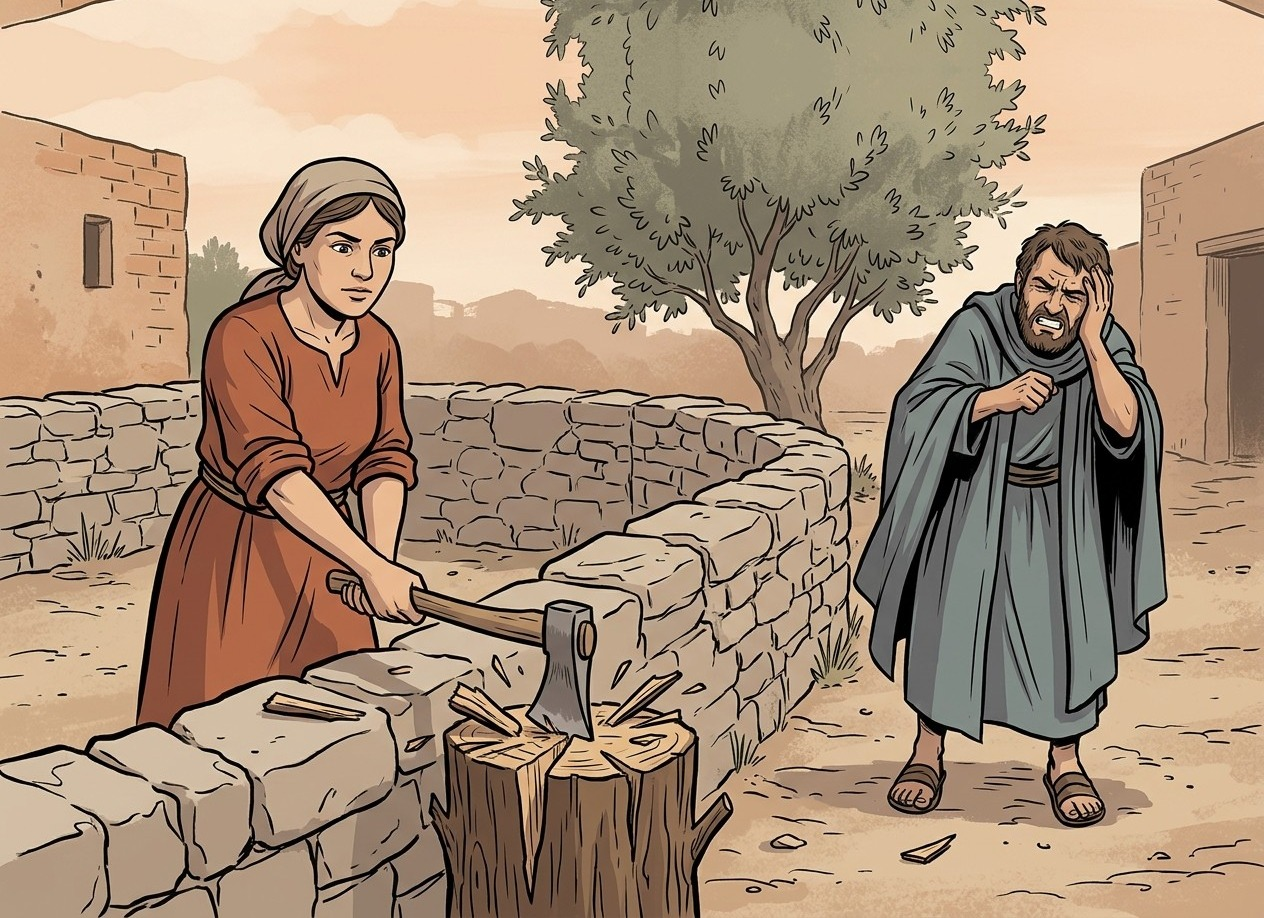
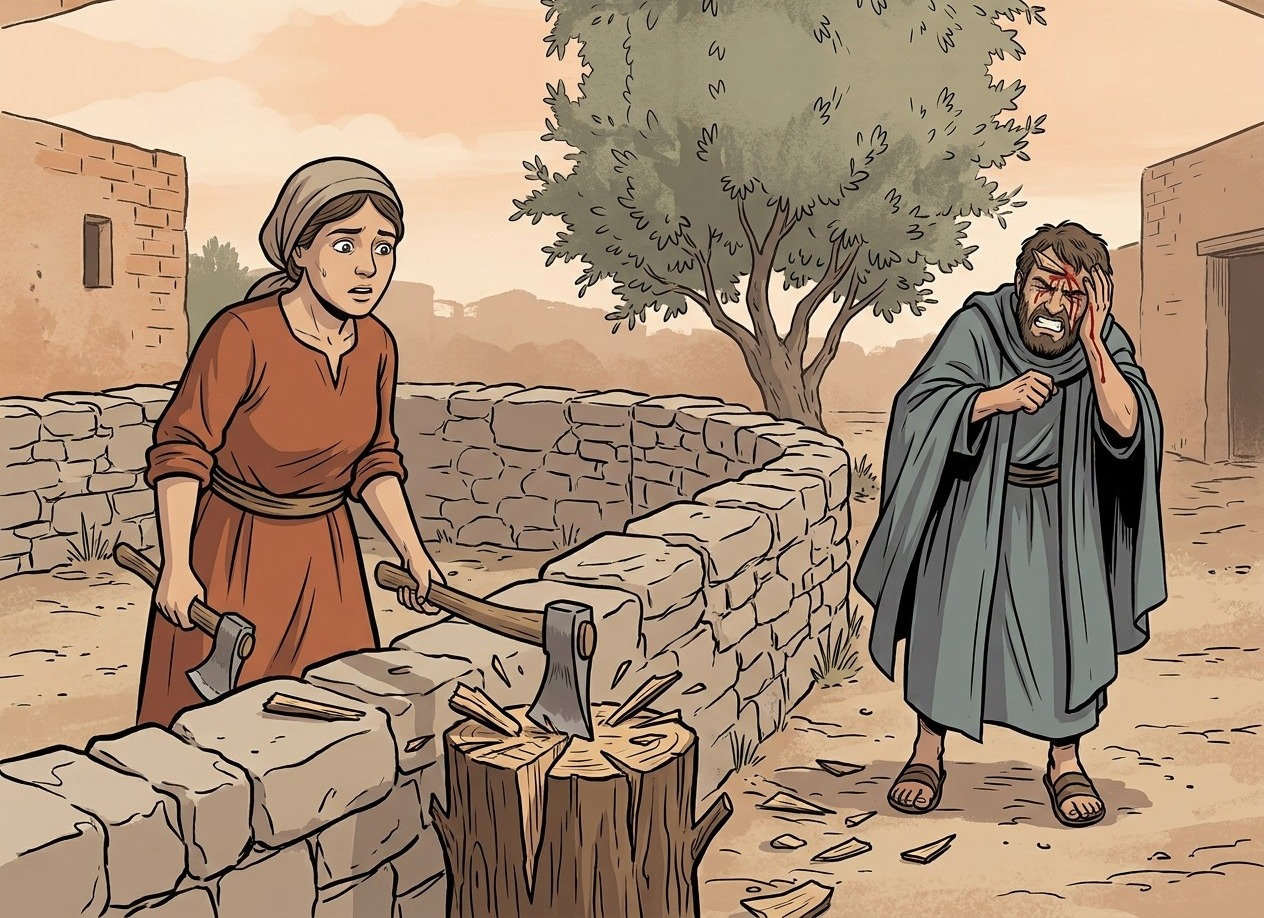
BK 3:7 replaced with the visibly injured version

diff --git a/AnyMishnahWeb/site/bava-kamma-3.html b/AnyMishnahWeb/site/bava-kamma-3.html
@@ -99,7 +99,7 @@ html[data-mode=q] .hot{border-color:transparent;background:none;pointer-events:n
 <div class="grid"><div class="panel aids"><h4>The case</h4><ul><li>Two were walking in the public domain, one running and the other walking, or both running, and they injured one another: neither is liable.</li><li>People have the right to walk in the public domain, and the right to run. Running is not in itself careless, so it carries no extra liability.</li></ul></div>
 <div class="panel text"><div class="he" lang="he" dir="rtl">שנים שהיו מהלכין ברשות הרבים. אחד רץ ואחד מהלך. או שהיו שניהם רצים. והזיקו זה את זה. שניהם פטורין: </div><div class="en">[If] two were walking along in the public domain, the one running and the other walking, or both running and they injured one another, neither is liable.</div><figure class="pic v" data-aud="y" data-mode="i"><div class="stage"><img src="img/older/clean/bk3-6.jpg" alt="A runner and a walker collide and both are hurt: neither pays the other." loading="lazy"><button class="hot" data-h="0" data-ans="notpay" data-q="1" aria-pressed="false" aria-label="The woman" style="left:10.206%;top:32.547%;width:28.402%;height:55.071%"></button><button class="hot" data-h="1" data-ans="notpay" data-q="2" aria-pressed="false" aria-label="The man" style="left:71.915%;top:33.373%;width:17.722%;height:57.075%"></button><img class="ov" data-h="0" src="img/tag-notpay.png" alt="" style="left:24.407%;top:32.783%;width:8.228%;--t:translate(-50%,-100%)"><img class="ov" data-h="1" src="img/tag-notpay.png" alt="" style="left:80.775%;top:33.608%;width:8.228%;--t:translate(-50%,-100%)"><span class="qchip" data-h="0" style="left:10.206%;top:32.547%">1</span><span class="qchip" data-h="1" style="left:71.915%;top:33.373%">2</span></div><div class="qask qonly"><span class="qa"><b>1</b> A runner and a walker collide and both are hurt. Does the woman pay the man?</span> <span class="qa"><b>2</b> Does the man pay the woman?</span></div><div class="tray qonly" role="group" aria-label="Badges"><button class="tb" type="button" data-k="pay" aria-label="pays" title="pays"><img src="img/badge-pay.png" alt="" draggable="false"></button><button class="tb" type="button" data-k="notpay" aria-label="does not pay" title="does not pay"><img src="img/badge-notpay.png" alt="" draggable="false"></button><button class="tb" type="button" data-k="keeps" aria-label="keeps it" title="keeps it"><img src="img/badge-keeps.png" alt="" draggable="false"></button></div><div class="qmsg qonly" role="status" aria-live="polite"></div><figcaption><span class="ctext">A runner and a walker collide and both are hurt: neither pays the other.</span> <span class="hint">Tap a person to see the ruling.</span> <button class="all" type="button">Show all</button> <span class="qonly qbtns"><button class="qshow" type="button">Show answers</button><button class="qreset" type="button">Try again</button></span><span class="qonly qhint">Drag a badge from the tray onto the picture, or tap a badge and then tap where it belongs.</span> <span class="note">Younger-audience picture not made yet; showing the older-audience one.</span></figcaption></figure><figure class="pic v" data-aud="y" data-mode="s"><img src="img/older/bk3-6.jpg" alt="A runner and a walker collide and both are hurt: neither pays the other." loading="lazy"><figcaption><span class="ctext">A runner and a walker collide and both are hurt: neither pays the other.</span> <span class="note">Younger-audience picture not made yet; showing the older-audience one.</span></figcaption></figure><figure class="pic v" data-aud="o" data-mode="i"><div class="stage"><img src="img/older/clean/bk3-6.jpg" alt="A runner and a walker collide and both are hurt: neither pays the other." loading="lazy"><button class="hot" data-h="0" data-ans="notpay" data-q="1" aria-pressed="false" aria-label="The woman" style="left:10.206%;top:32.547%;width:28.402%;height:55.071%"></button><button class="hot" data-h="1" data-ans="notpay" data-q="2" aria-pressed="false" aria-label="The man" style="left:71.915%;top:33.373%;width:17.722%;height:57.075%"></button><img class="ov" data-h="0" src="img/tag-notpay.png" alt="" style="left:24.407%;top:32.783%;width:8.228%;--t:translate(-50%,-100%)"><img class="ov" data-h="1" src="img/tag-notpay.png" alt="" style="left:80.775%;top:33.608%;width:8.228%;--t:translate(-50%,-100%)"><span class="qchip" data-h="0" style="left:10.206%;top:32.547%">1</span><span class="qchip" data-h="1" style="left:71.915%;top:33.373%">2</span></div><div class="qask qonly"><span class="qa"><b>1</b> A runner and a walker collide and both are hurt. Does the woman pay the man?</span> <span class="qa"><b>2</b> Does the man pay the woman?</span></div><div class="tray qonly" role="group" aria-label="Badges"><button class="tb" type="button" data-k="pay" aria-label="pays" title="pays"><img src="img/badge-pay.png" alt="" draggable="false"></button><button class="tb" type="button" data-k="notpay" aria-label="does not pay" title="does not pay"><img src="img/badge-notpay.png" alt="" draggable="false"></button><button class="tb" type="button" data-k="keeps" aria-label="keeps it" title="keeps it"><img src="img/badge-keeps.png" alt="" draggable="false"></button></div><div class="qmsg qonly" role="status" aria-live="polite"></div><figcaption><span class="ctext">A runner and a walker collide and both are hurt: neither pays the other.</span> <span class="hint">Tap a person to see the ruling.</span> <button class="all" type="button">Show all</button> <span class="qonly qbtns"><button class="qshow" type="button">Show answers</button><button class="qreset" type="button">Try again</button></span><span class="qonly qhint">Drag a badge from the tray onto the picture, or tap a badge and then tap where it belongs.</span></figcaption></figure><figure class="pic v" data-aud="o" data-mode="s"><img src="img/older/bk3-6.jpg" alt="A runner and a walker collide and both are hurt: neither pays the other." loading="lazy"><figcaption><span class="ctext">A runner and a walker collide and both are hurt: neither pays the other.</span></figcaption></figure><details><summary>R. Kulp's commentary</summary><p><b>[If] two were walking along in the public domain, the one running and the other walking, or both running and they injured one another, neither is liable.</b> Mishnah six teaches again that people have the right to walk in the public domain and if someone bumps into them, they will not be liable for damages, unless they should have seen the person, as we learned yesterday.  The new element in this mishnah is running.  One might have thought that running in the public domain is by its nature dangerous, and therefore anyone who does so will be liable for any damages he/she causes.  The mishnah says no, a person has the right to run in the public domain.  Running in and of itself is not a criminally negligent activity and therefore does not carry with it an added degree of liability.</p><p><b>Questions for Further Thought:</b> • Yesterday I suggested to analogize the mishnah’s descriptions of accidents in the public domain to traffic accidents in our society.  What might be a modern equivalent to running?  Try to think of something that is inherently more dangerous but still legal and does not carry with it any extra liability.  Is there such a thing?</p></details></div></div></section><section id="m7"><h2>Mishnah 7: Splitting wood</h2><p class="sum">Someone who splits wood and hurts anyone is liable, whichever domain he and the injured person are in.</p>
 <div class="grid"><div class="panel aids"><h4>The case</h4><ul><li>A man was splitting wood in a private domain and injured anyone in the public domain, or was in the public domain and injured anyone in a private domain, or was in a private domain and injured anyone in another private domain: he is liable.</li><li>A person has the right to work in a profession of his choice, but the profession may not cause damage to other people; wherever he chops and wherever the damage is, he is liable.</li></ul></div>
-<div class="panel text"><div class="he" lang="he" dir="rtl">המבקע ברשות היחיד והזיק ברשות הרבים. ברשות הרבים והזיק ברשות היחיד. ברשות היחיד והזיק ברשות היחיד אחר. חייב: </div><div class="en">[If] a man was splitting wood in the private domain and injured anyone in the public domain, or if he was in the public domain and injured anyone in the private domain, or if he was in a private domain and injured anyone in another private domain, he is liable.</div><figure class="pic v" data-aud="y" data-mode="i"><div class="stage"><img src="img/older/clean/bk3-7.jpg" alt="A chip from her log flew over the wall and hurt a passerby: she pays." loading="lazy"><button class="hot" data-h="0" data-ans="pay" data-q="?" aria-pressed="false" aria-label="The woman splitting wood" style="left:15.348%;top:15.795%;width:18.038%;height:66.776%"></button><img class="ov" data-h="0" src="img/tag-pay.png" alt="" style="left:24.367%;top:16.013%;width:8.228%;--t:translate(-50%,-100%)"><span class="qchip" data-h="0" style="left:15.348%;top:15.795%">?</span></div><div class="qask qonly"><span class="qa">A chip from her log flew over the wall and hurt a passerby. Does she pay?</span></div><div class="tray qonly" role="group" aria-label="Badges"><button class="tb" type="button" data-k="pay" aria-label="pays" title="pays"><img src="img/badge-pay.png" alt="" draggable="false"></button><button class="tb" type="button" data-k="notpay" aria-label="does not pay" title="does not pay"><img src="img/badge-notpay.png" alt="" draggable="false"></button><button class="tb" type="button" data-k="keeps" aria-label="keeps it" title="keeps it"><img src="img/badge-keeps.png" alt="" draggable="false"></button></div><div class="qmsg qonly" role="status" aria-live="polite"></div><figcaption><span class="ctext">A chip from her log flew over the wall and hurt a passerby: she pays.</span> <span class="hint">Tap a person to see the ruling.</span> <button class="all" type="button">Show all</button> <span class="qonly qbtns"><button class="qshow" type="button">Show answers</button><button class="qreset" type="button">Try again</button></span><span class="qonly qhint">Drag a badge from the tray onto the picture, or tap a badge and then tap where it belongs.</span> <span class="note">Younger-audience picture not made yet; showing the older-audience one.</span></figcaption></figure><figure class="pic v" data-aud="y" data-mode="s"><img src="img/older/bk3-7.jpg" alt="A chip from her log flew over the wall and hurt a passerby: she pays." loading="lazy"><figcaption><span class="ctext">A chip from her log flew over the wall and hurt a passerby: she pays.</span> <span class="note">Younger-audience picture not made yet; showing the older-audience one.</span></figcaption></figure><figure class="pic v" data-aud="o" data-mode="i"><div class="stage"><img src="img/older/clean/bk3-7.jpg" alt="A chip from her log flew over the wall and hurt a passerby: she pays." loading="lazy"><button class="hot" data-h="0" data-ans="pay" data-q="?" aria-pressed="false" aria-label="The woman splitting wood" style="left:15.348%;top:15.795%;width:18.038%;height:66.776%"></button><img class="ov" data-h="0" src="img/tag-pay.png" alt="" style="left:24.367%;top:16.013%;width:8.228%;--t:translate(-50%,-100%)"><span class="qchip" data-h="0" style="left:15.348%;top:15.795%">?</span></div><div class="qask qonly"><span class="qa">A chip from her log flew over the wall and hurt a passerby. Does she pay?</span></div><div class="tray qonly" role="group" aria-label="Badges"><button class="tb" type="button" data-k="pay" aria-label="pays" title="pays"><img src="img/badge-pay.png" alt="" draggable="false"></button><button class="tb" type="button" data-k="notpay" aria-label="does not pay" title="does not pay"><img src="img/badge-notpay.png" alt="" draggable="false"></button><button class="tb" type="button" data-k="keeps" aria-label="keeps it" title="keeps it"><img src="img/badge-keeps.png" alt="" draggable="false"></button></div><div class="qmsg qonly" role="status" aria-live="polite"></div><figcaption><span class="ctext">A chip from her log flew over the wall and hurt a passerby: she pays.</span> <span class="hint">Tap a person to see the ruling.</span> <button class="all" type="button">Show all</button> <span class="qonly qbtns"><button class="qshow" type="button">Show answers</button><button class="qreset" type="button">Try again</button></span><span class="qonly qhint">Drag a badge from the tray onto the picture, or tap a badge and then tap where it belongs.</span></figcaption></figure><figure class="pic v" data-aud="o" data-mode="s"><img src="img/older/bk3-7.jpg" alt="A chip from her log flew over the wall and hurt a passerby: she pays." loading="lazy"><figcaption><span class="ctext">A chip from her log flew over the wall and hurt a passerby: she pays.</span></figcaption></figure><details><summary>R. Kulp's commentary</summary><p><b>Questions for Further Thought:</b> • Based on mishnah seven, would you think a person would be liable if while chopping wood on his own property he damages someone who has entered his property?</p></details></div></div></section><section id="m8"><h2>Mishnah 8: When two oxen or two people hurt each other</h2><p class="sum">The payment is for the greater hurt. Harmless oxen pay half damages, oxen that are attested dangers and people pay full damages.</p>
+<div class="panel text"><div class="he" lang="he" dir="rtl">המבקע ברשות היחיד והזיק ברשות הרבים. ברשות הרבים והזיק ברשות היחיד. ברשות היחיד והזיק ברשות היחיד אחר. חייב: </div><div class="en">[If] a man was splitting wood in the private domain and injured anyone in the public domain, or if he was in the public domain and injured anyone in the private domain, or if he was in a private domain and injured anyone in another private domain, he is liable.</div><figure class="pic v" data-aud="y" data-mode="i"><div class="stage"><img src="img/older/clean/bk3-7.jpg" alt="A chip from her log flew over the wall and cut a passerby: she pays." loading="lazy"><button class="hot" data-h="0" data-ans="pay" data-q="?" aria-pressed="false" aria-label="The woman splitting wood" style="left:14.399%;top:15.577%;width:26.661%;height:64.597%"></button><img class="ov" data-h="0" src="img/tag-pay.png" alt="" style="left:27.729%;top:15.795%;width:8.228%;--t:translate(-50%,-100%)"><span class="qchip" data-h="0" style="left:14.399%;top:15.577%">?</span></div><div class="qask qonly"><span class="qa">A chip from her log flew over the wall and cut a passerby&#x27;s forehead. Does she pay?</span></div><div class="tray qonly" role="group" aria-label="Badges"><button class="tb" type="button" data-k="pay" aria-label="pays" title="pays"><img src="img/badge-pay.png" alt="" draggable="false"></button><button class="tb" type="button" data-k="notpay" aria-label="does not pay" title="does not pay"><img src="img/badge-notpay.png" alt="" draggable="false"></button><button class="tb" type="button" data-k="keeps" aria-label="keeps it" title="keeps it"><img src="img/badge-keeps.png" alt="" draggable="false"></button></div><div class="qmsg qonly" role="status" aria-live="polite"></div><figcaption><span class="ctext">A chip from her log flew over the wall and cut a passerby: she pays.</span> <span class="hint">Tap a person to see the ruling.</span> <button class="all" type="button">Show all</button> <span class="qonly qbtns"><button class="qshow" type="button">Show answers</button><button class="qreset" type="button">Try again</button></span><span class="qonly qhint">Drag a badge from the tray onto the picture, or tap a badge and then tap where it belongs.</span> <span class="note">Younger-audience picture not made yet; showing the older-audience one.</span></figcaption></figure><figure class="pic v" data-aud="y" data-mode="s"><img src="img/older/bk3-7.jpg" alt="A chip from her log flew over the wall and cut a passerby: she pays." loading="lazy"><figcaption><span class="ctext">A chip from her log flew over the wall and cut a passerby: she pays.</span> <span class="note">Younger-audience picture not made yet; showing the older-audience one.</span></figcaption></figure><figure class="pic v" data-aud="o" data-mode="i"><div class="stage"><img src="img/older/clean/bk3-7.jpg" alt="A chip from her log flew over the wall and cut a passerby: she pays." loading="lazy"><button class="hot" data-h="0" data-ans="pay" data-q="?" aria-pressed="false" aria-label="The woman splitting wood" style="left:14.399%;top:15.577%;width:26.661%;height:64.597%"></button><img class="ov" data-h="0" src="img/tag-pay.png" alt="" style="left:27.729%;top:15.795%;width:8.228%;--t:translate(-50%,-100%)"><span class="qchip" data-h="0" style="left:14.399%;top:15.577%">?</span></div><div class="qask qonly"><span class="qa">A chip from her log flew over the wall and cut a passerby&#x27;s forehead. Does she pay?</span></div><div class="tray qonly" role="group" aria-label="Badges"><button class="tb" type="button" data-k="pay" aria-label="pays" title="pays"><img src="img/badge-pay.png" alt="" draggable="false"></button><button class="tb" type="button" data-k="notpay" aria-label="does not pay" title="does not pay"><img src="img/badge-notpay.png" alt="" draggable="false"></button><button class="tb" type="button" data-k="keeps" aria-label="keeps it" title="keeps it"><img src="img/badge-keeps.png" alt="" draggable="false"></button></div><div class="qmsg qonly" role="status" aria-live="polite"></div><figcaption><span class="ctext">A chip from her log flew over the wall and cut a passerby: she pays.</span> <span class="hint">Tap a person to see the ruling.</span> <button class="all" type="button">Show all</button> <span class="qonly qbtns"><button class="qshow" type="button">Show answers</button><button class="qreset" type="button">Try again</button></span><span class="qonly qhint">Drag a badge from the tray onto the picture, or tap a badge and then tap where it belongs.</span></figcaption></figure><figure class="pic v" data-aud="o" data-mode="s"><img src="img/older/bk3-7.jpg" alt="A chip from her log flew over the wall and cut a passerby: she pays." loading="lazy"><figcaption><span class="ctext">A chip from her log flew over the wall and cut a passerby: she pays.</span></figcaption></figure><details><summary>R. Kulp's commentary</summary><p><b>Questions for Further Thought:</b> • Based on mishnah seven, would you think a person would be liable if while chopping wood on his own property he damages someone who has entered his property?</p></details></div></div></section><section id="m8"><h2>Mishnah 8: When two oxen or two people hurt each other</h2><p class="sum">The payment is for the greater hurt. Harmless oxen pay half damages, oxen that are attested dangers and people pay full damages.</p>
 <div class="grid"><div class="panel aids"><h4>The cases in the mishnah</h4><ul><li>Two harmless oxen hurt one another: the owner pays half damages for the one that suffered the greater hurt.</li><li>If both were attested dangers: full damages for the one that suffered the greater hurt.</li><li>One harmless and one attested danger: the attested danger pays full damages for the greater hurt the other suffered; the harmless one pays half damages for the greater hurt the other suffered.</li><li>Two men who hurt one another: full damages for the one who suffered the greater hurt.</li><li>A man and a harmless ox: the man pays full damages; the ox&#x27;s owner pays half damages.</li><li>Rabbi Akiva: even if a harmless ox hurt a man, full damages are paid for the one who suffered the greater hurt.</li></ul><h4>Background</h4><ul><li>An attested danger (muad) has been testified against: its owner pays full damages from the best of his land. A harmless ox (tam) costs its owner half damages, from the value of the ox itself, so he never pays more than that ox is worth.</li><li>A human being is always an attested danger.</li></ul><div class="chart"><h4>Who pays for the greater hurt</h4><table><tr><th>Who hurt each other</th><th>The payment</th></tr><tr><td>Two harmless oxen</td><td>half damages</td></tr><tr><td>Two attested dangers</td><td>full damages</td></tr><tr><td>One attested danger, one harmless</td><td>the dangerous one pays full damages; the harmless one half</td></tr><tr><td>Two men</td><td>full damages</td></tr><tr><td>A man and a harmless ox</td><td>the man pays full damages; the ox&#x27;s owner half (R. Akiva: full)</td></tr></table></div></div>
 <div class="panel text"><div class="he" lang="he" dir="rtl">שני שוורים תמים שחבלו זה את זה משלמים במותר חצי נזק. שניהם מועדים משלמים במותר נזק שלם. אחד תם. ואחד מועד. מועד בתם משלם במותר נזק שלם. תם במועד משלם במותר חצי נזק. וכן שני אנשים שחבלו זה בזה משלמים במותר נזק שלם. אדם במועד. ומועד באדם. משלם במותר נזק שלם. אדם בתם ותם באדם. אדם בתם משלם במותר נזק שלם. תם באדם משלם במותר חצי נזק. רבי עקיבא אומר אף תם שחבל באדם משלם במותר נזק שלם: </div><div class="en">If two oxen which were accounted harmless hurt one another, the owner pays half-damages for that one which suffered the greater hurt. If both were attested dangers full damages are payable for that one which suffered the greater hurt. If one was accounted harmless and the other was an attested danger, that which was an attested danger as against that which was accounted harmless must pay full damages for the greater hurt that the other has suffered, while that which was accounted harmless, as against that which was an attested danger, pays only half damages for the greater hurt that the other has suffered. So, too, if two men hurt one another, full damages are payable for that one which suffered the greater hurt. If a man and an ox which was accounted harmless hurt one another, the man as against the ox accounted harmless must pay full damages for the greater hurt that the other has suffered, while the ox accounted harmless, as against the man, pays only half damages for the greater hurt that the other suffered. Rabbi Akiva says: “Even if an ox accounted harmless hurt a man, full damages must be paid for that one which suffered the greater hurt.</div></div></div></section><section id="m9"><h2>Mishnah 9: Selling the live ox and dividing</h2><p class="sum">The Torah says to sell the live ox and divide the price. The mishnah shows how this works out when the two oxen are worth different amounts.</p>
 <div class="grid"><div class="panel aids"><h4>The verse</h4><ul><li>Exodus 21:35: when a man&#x27;s ox gores his neighbour&#x27;s ox and it dies, they shall sell the live ox and divide its price, and they shall also divide the dead animal. This is the payment system for a harmless ox.</li></ul><h4>The cases</h4><ul><li>An ox worth 100 gored an ox worth 200 and the carcass is worth nothing: the owner of the gored ox takes the live ox.</li><li>An ox worth 200 gored an ox worth 200 and the carcass is worth nothing: Rabbi Meir would apply the verse by selling the live ox and dividing its price.</li><li>Rabbi Judah: that is the halakhah, but it fulfils only half the verse. If an ox worth 200 gored an ox worth 200 and the carcass is worth 50, each takes half of the live ox and half of the dead ox.</li><li>With carcass 50 they sell both and split 200 and 50: each is left with 125, 75 less than he started with, which is half of the damages of 150.</li></ul></div>
